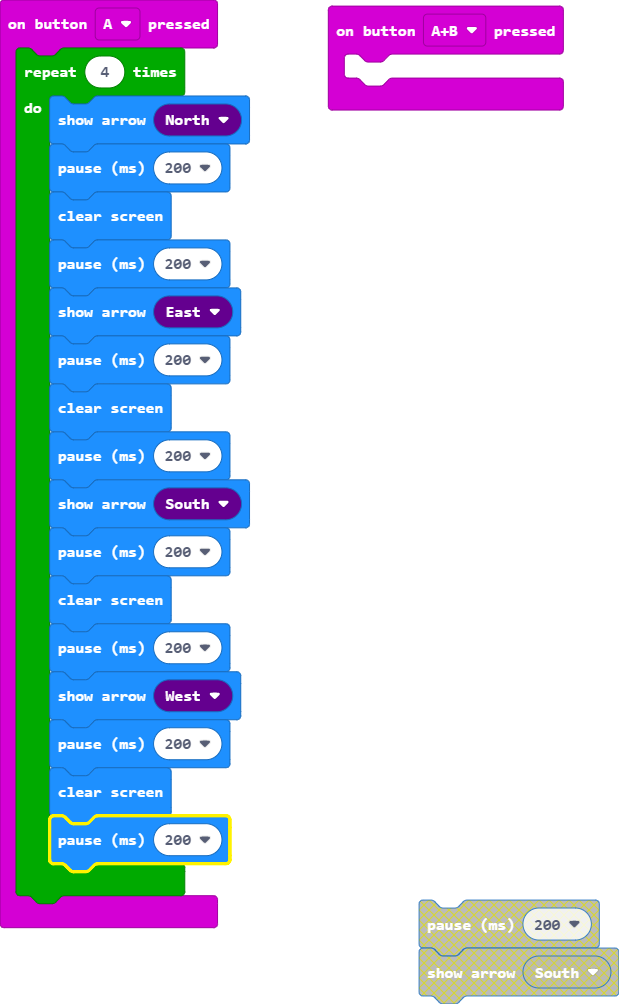
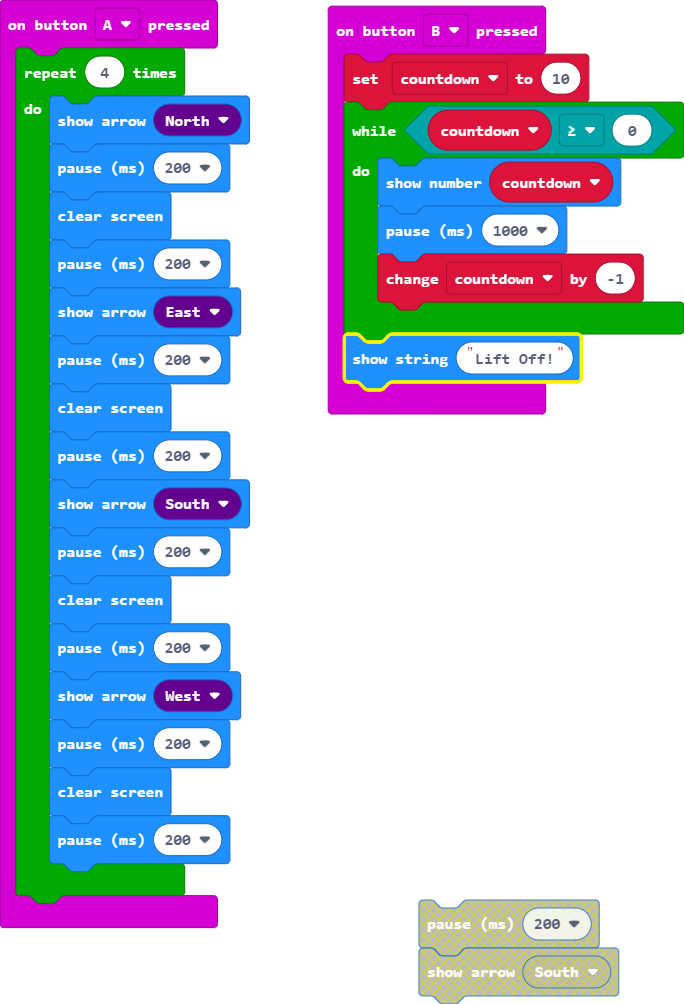
Added button 3 countdown timer

diff --git a/main.ts b/main.ts
@@ -1,3 +1,4 @@
+let countdown = 0
 input.onButtonPressed(Button.A, function () {
     for (let index = 0; index < 4; index++) {
         basic.showArrow(ArrowNames.North)
@@ -18,6 +19,12 @@ input.onButtonPressed(Button.A, function () {
         basic.pause(200)
     }
 })
-input.onButtonPressed(Button.AB, function () {
-	
+input.onButtonPressed(Button.B, function () {
+    countdown = 10
+    while (countdown >= 0) {
+        basic.showNumber(countdown)
+        basic.pause(1000)
+        countdown += -1
+    }
+    basic.showString("Lift Off!")
 })
